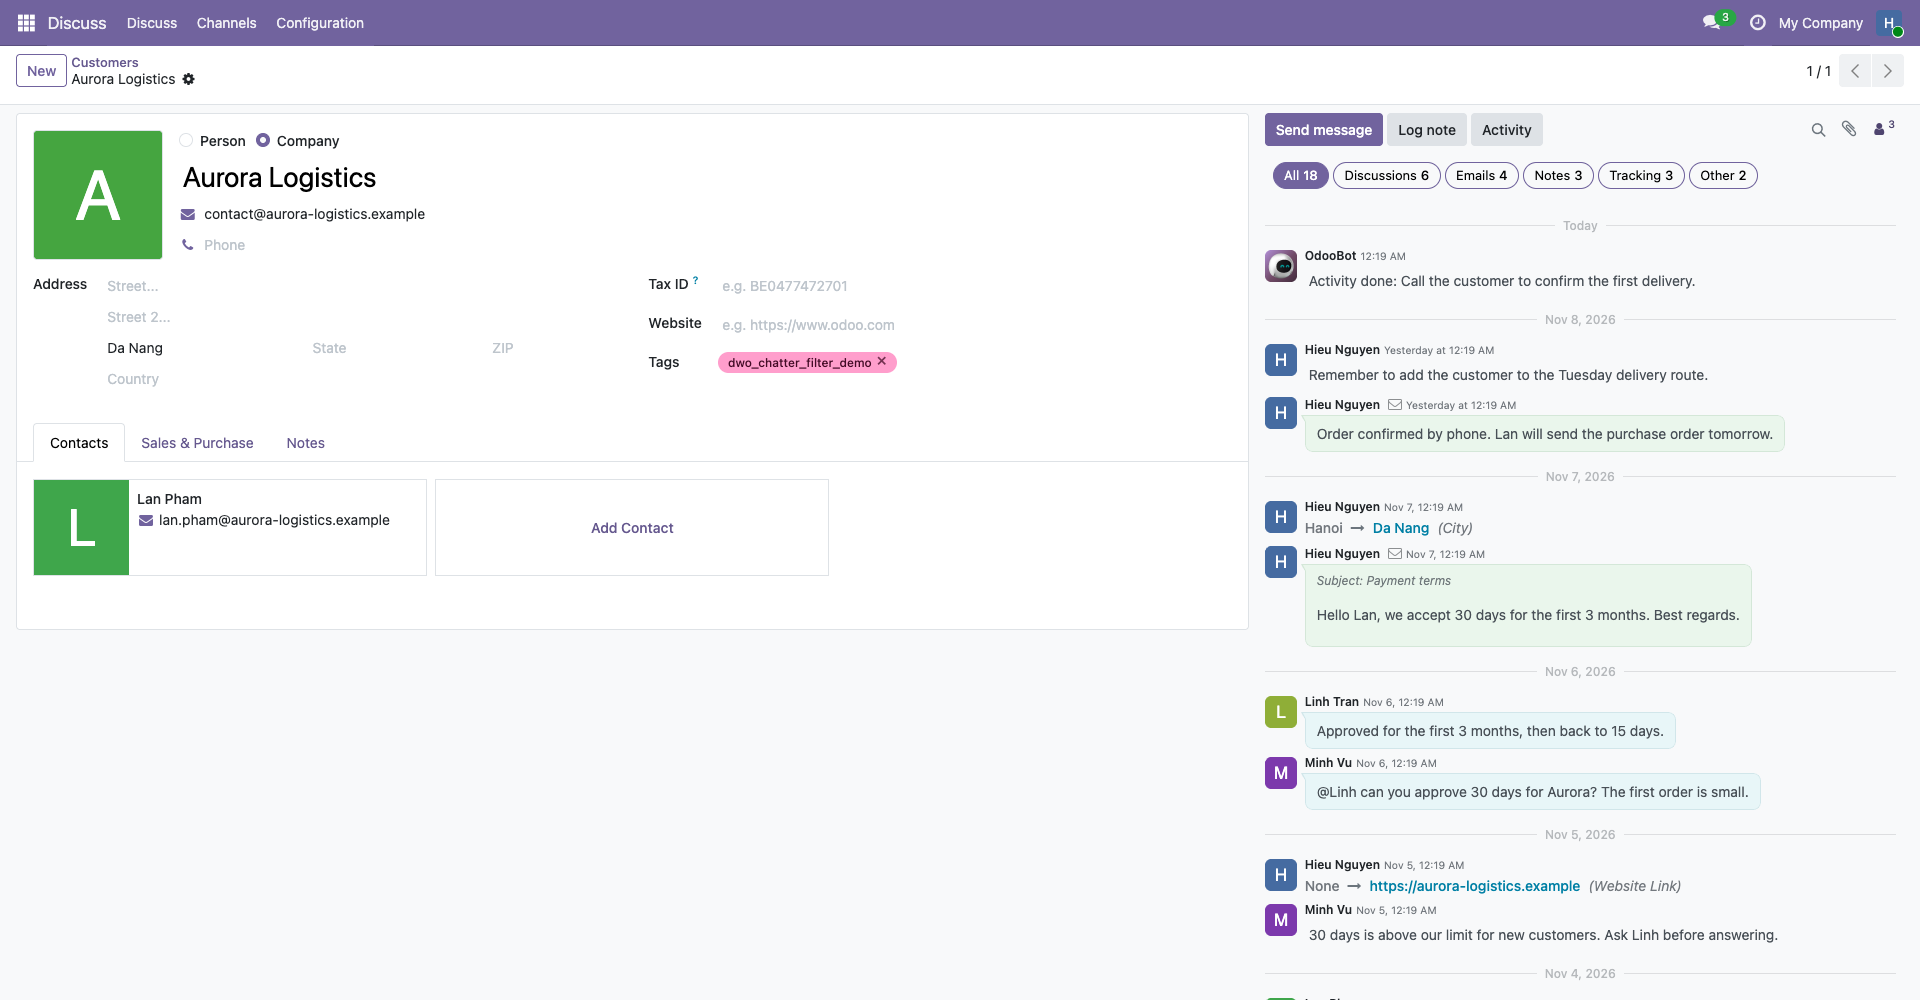
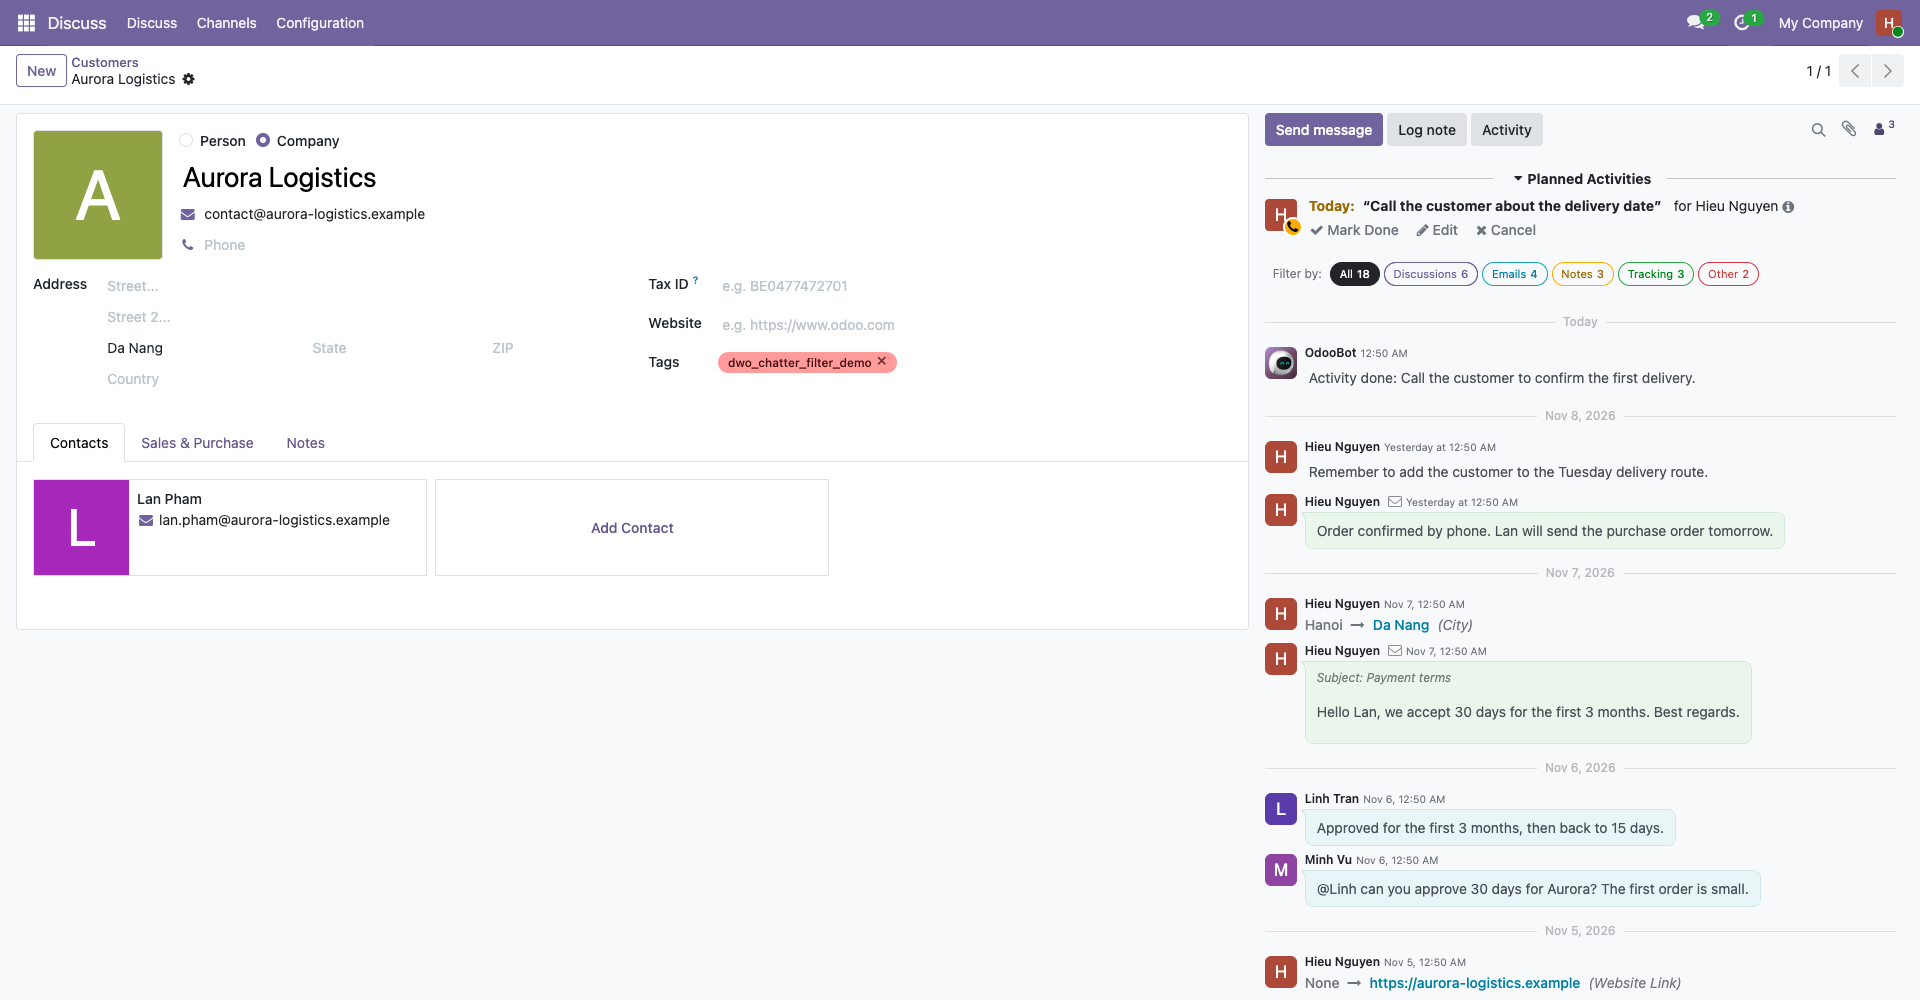
dwo_chatter_filter: badges under the activities, Filter by label, small font, one colour per kind
Claude-Session: https://claude.ai/code/session_01MswwjxeQXqVzdvrwyBqN2Q

diff --git a/dwo_chatter_filter/static/description/index.html b/dwo_chatter_filter/static/description/index.html
@@ -4,7 +4,7 @@
     <div class="text-center pt-5 pb-3 border-bottom">
         <h1 class="font-weight-bold mt-0 mb-2" style="font-size: 30px; color: #4A2F45;">Message Filter on Chatter for Odoo</h1>
         <p class="font-weight-bold mb-2" style="font-size: 18px; color: #4A2F45;">Stop scrolling through the whole chatter.</p>
-        <p class="mb-4" style="font-size: 15px;">A row of badges under <strong>Send message</strong>, <strong>Log note</strong> and <strong>Activity</strong>: click one to see only discussions, emails, notes or tracking.</p>
+        <p class="mb-4" style="font-size: 15px;">A <strong>Filter by:</strong> row of coloured badges above the messages: click one to see only discussions, emails, notes or tracking.</p>
     </div>
 
     <div class="my-5">
@@ -20,7 +20,7 @@
             <div class="card h-100" style="border-top: 4px solid #875A7B;">
                 <div class="card-body">
                     <h4 class="font-weight-bold mt-0 mb-3" style="font-size: 18px; color: #4A2F45;">Six badges</h4>
-                    <p class="mb-0" style="font-size: 14px;">All, Discussions, Emails, Notes, Tracking and Other.</p>
+                    <p class="mb-0" style="font-size: 14px;">All, Discussions, Emails, Notes, Tracking and Other, each with its own colour.</p>
                 </div>
             </div>
         </div>
@@ -36,7 +36,7 @@
             <div class="card h-100" style="border-top: 4px solid #875A7B;">
                 <div class="card-body">
                     <h4 class="font-weight-bold mt-0 mb-3" style="font-size: 18px; color: #4A2F45;">One click</h4>
-                    <p class="mb-0" style="font-size: 14px;">One kind at a time. Click All to come back.</p>
+                    <p class="mb-0" style="font-size: 14px;">One kind at a time: the badge fills with its colour. Click All to come back.</p>
                 </div>
             </div>
         </div>
@@ -67,9 +67,9 @@
     </div>
 
     <h2 class="font-weight-bold mt-5 mb-3" style="font-size: 30px; color: #4A2F45;">The whole picture</h2>
-    <p class="mb-4" style="font-size: 16px;">On a wide screen the chatter sits beside the record. The badges are right under the actions, each with its count.</p>
+    <p class="mb-4" style="font-size: 16px;">On a wide screen the chatter sits beside the record. <strong>Filter by:</strong> comes under the planned activities and above the messages. Each badge has its own colour and its count.</p>
     <div class="text-center mb-4">
-        <img src="screenshot_1.png" alt="A record with its chatter on the right: the badges All, Discussions, Emails, Notes, Tracking and Other with their counts, above the messages" class="img-fluid rounded shadow"/>
+        <img src="screenshot_1.png" alt="A record with its chatter on the right: the Filter by label and the badges All, Discussions, Emails, Notes, Tracking and Other, under the planned activities and above the messages" class="img-fluid rounded shadow"/>
     </div>
 
     <h2 class="font-weight-bold mt-5 mb-3" style="font-size: 30px; color: #4A2F45;">Discussions</h2>
@@ -120,7 +120,7 @@
         </div>
         <div class="tab-pane fade" id="dcf_use" role="tabpanel">
             <h4 class="font-weight-bold mt-0 mb-3" style="font-size: 18px; color: #875A7B;">Filter the messages</h4>
-            <p class="mb-2" style="font-size: 14px;">Open any record with a chatter. Click a badge to see that kind of message only. Click <strong>All</strong> to see everything again.</p>
+            <p class="mb-2" style="font-size: 14px;">Under <strong>Filter by:</strong>, click a badge to see that kind of message only. Click <strong>All</strong> to see everything again.</p>
             <h4 class="font-weight-bold mt-0 mb-3" style="font-size: 18px; color: #875A7B;">What each badge holds</h4>
             <p class="mb-2" style="font-size: 14px;"><strong>Discussions</strong>: Send message. <strong>Emails</strong>: emails received and sent. <strong>Notes</strong>: Log note. <strong>Tracking</strong>: changed fields. <strong>Other</strong>: automatic messages and the rest.</p>
             <p class="text-muted mb-0" style="font-size: 14px;">A badge with no message is greyed out.</p>

diff --git a/dwo_chatter_filter/static/tests/tours/filter_tour.js b/dwo_chatter_filter/static/tests/tours/filter_tour.js
@@ -35,9 +35,17 @@ const emailHidden = (text) => ({
 registry.category("web_tour.tours").add("dwo_chatter_filter", {
     steps: () => [
         { trigger: ".o-mail-Chatter" },
-        // the badges are right under the actions, with the numbers
-        { trigger: ".o-mail-Chatter-topbar + .o-dwo-messageFilter, .o-mail-Chatter-top + .o-mail-Chatter-content > .o-dwo-messageFilter" },
-        { trigger: `${badge("all")}.text-bg-primary:contains('5')` },
+        // the place: under the planned activities and above the messages
+        { trigger: ".o-mail-ActivityList + .o-dwo-messageFilter + .o-mail-Thread" },
+        // a label, then the badges, each with its own colour (outlined while off)
+        { trigger: ".o-dwo-messageFilter .o-dwo-filterLabel:contains('Filter by:')" },
+        { trigger: `${badge("discussion")}.text-primary.border-primary` },
+        { trigger: `${badge("email")}.text-info.border-info` },
+        { trigger: `${badge("note")}.text-warning.border-warning` },
+        { trigger: `${badge("tracking")}.text-success.border-success` },
+        { trigger: `${badge("other")}.text-danger.border-danger` },
+        // the numbers
+        { trigger: `${badge("all")}.text-bg-dark:contains('5')` },
         { trigger: `${badge("discussion")}:contains('1')` },
         { trigger: `${badge("email")}:contains('1')` },
         { trigger: `${badge("note")}:contains('1')` },
@@ -49,7 +57,8 @@ registry.category("web_tour.tours").add("dwo_chatter_filter", {
         emailShown("Email from the customer"),
         // Emails: only the email
         { trigger: badge("email"), run: "click" },
-        { trigger: `${badge("email")}.text-bg-primary` },
+        // chosen: filled with its colour
+        { trigger: `${badge("email")}.text-bg-info` },
         emailShown("Email from the customer"),
         { trigger: hidden("Talk about the order") },
         { trigger: hidden("Private reminder") },
@@ -72,7 +81,7 @@ registry.category("web_tour.tours").add("dwo_chatter_filter", {
         { trigger: hidden("Automatic message") },
         // All: back to everything
         { trigger: badge("all"), run: "click" },
-        { trigger: `${badge("all")}.text-bg-primary` },
+        { trigger: `${badge("all")}.text-bg-dark` },
         { trigger: showing("Private reminder") },
         { trigger: showing("Automatic message") },
         emailShown("Email from the customer"),

diff --git a/dwo_chatter_filter/static/src/filter/dwo_message_filter.js b/dwo_chatter_filter/static/src/filter/dwo_message_filter.js
@@ -2,12 +2,13 @@ import { Component, onWillUnmount, useEffect, useState } from "@odoo/owl";
 import { _t } from "@web/core/l10n/translation";
 import { useService } from "@web/core/utils/hooks";
 
+// Each kind has its own colour (a Bootstrap contextual colour): outlined when off, filled when chosen.
 const KINDS = [
-    { id: "discussion", label: _t("Discussions") },
-    { id: "email", label: _t("Emails") },
-    { id: "note", label: _t("Notes") },
-    { id: "tracking", label: _t("Tracking") },
-    { id: "other", label: _t("Other") },
+    { id: "discussion", label: _t("Discussions"), color: "primary" },
+    { id: "email", label: _t("Emails"), color: "info" },
+    { id: "note", label: _t("Notes"), color: "warning" },
+    { id: "tracking", label: _t("Tracking"), color: "success" },
+    { id: "other", label: _t("Other"), color: "danger" },
 ];
 
 /**
@@ -49,7 +50,7 @@ export class DwoMessageFilter extends Component {
 
     get items() {
         const counts = this.state.counts || {};
-        return [{ id: false, label: _t("All"), count: counts.all ?? 0 }].concat(
+        return [{ id: false, label: _t("All"), color: "dark", count: counts.all ?? 0 }].concat(
             KINDS.map((kind) => ({ ...kind, count: counts[kind.id] ?? 0 }))
         );
     }

diff --git a/dwo_chatter_filter/static/src/filter/dwo_message_filter.scss b/dwo_chatter_filter/static/src/filter/dwo_message_filter.scss
@@ -1,6 +1,11 @@
-.o-dwo-messageFilter .o-dwo-filterBadge {
-    cursor: pointer;
-    font-size: .8125rem;
-    padding: .35rem .65rem;
-    &.o-dwo-filterEmpty { opacity: .5; cursor: default; }
+.o-dwo-messageFilter {
+    font-size: .75rem;
+    .o-dwo-filterLabel { font-size: .75rem; }
+    .o-dwo-filterBadge {
+        cursor: pointer;
+        font-size: .7rem;
+        padding: .25rem .55rem;
+        line-height: 1.2;
+        &.o-dwo-filterEmpty { opacity: .45; cursor: default; }
+    }
 }

diff --git a/dwo_chatter_filter/tests/test_filter_tour.py b/dwo_chatter_filter/tests/test_filter_tour.py
@@ -17,6 +17,8 @@ class TestMessageFilterTour(HttpCase):
         Message.create(dict(base, body="<p>Private reminder</p>", message_type="comment", subtype_id=mt_note.id))
         Message.create(dict(base, body="<p>Email from the customer</p>", message_type="email", subtype_id=mt_comment.id))
         tracking = Message.create(dict(base, body="", message_type="notification", subtype_id=mt_note.id))
+        # a planned activity: the badges come under it
+        cls.record.activity_schedule("mail.mail_activity_data_todo", summary="Call the customer")
         cls.env["mail.tracking.value"].create({
             "field_id": cls.env["ir.model.fields"]._get("res.partner", "name").id,
             "mail_message_id": tracking.id, "old_value_char": "Old name", "new_value_char": "Name changed"})

diff --git a/.lab/dwo_chatter_filter_demo_data/hooks.py b/.lab/dwo_chatter_filter_demo_data/hooks.py
@@ -91,6 +91,11 @@ def post_init_hook(env):
     note(1, "<p>Remember to add the customer to the Tuesday delivery route.</p>", admin)
     automatic(0, "<p>Activity done: Call the customer to confirm the first delivery.</p>")
 
+    # a planned activity: the badges come under it
+    aurora.activity_schedule(
+        "mail.mail_activity_data_call", summary="Call the customer about the delivery date",
+        user_id=admin.id, date_deadline=fields.Date.today() + timedelta(days=1))
+
     env["mail.mail"].sudo().search([("state", "=", "outgoing")]).write({"state": "cancel"})
 
 

diff --git a/dwo_chatter_filter/docs/README.md b/dwo_chatter_filter/docs/README.md
@@ -10,9 +10,15 @@ trộn lẫn. Muốn xem riêng email hay riêng các lần thay đổi trườn
 
 ## 2. Tính năng
 
-Một hàng badge ở đầu vùng nội dung chatter, ngay dưới hàng nút Send message, Log note, Activity:
+Một hàng badge có nhãn **Filter by:**, nằm **dưới danh sách Planned Activities (`o-mail-ActivityList`) và trên danh sách
+message (`o-mail-Thread`)**:
 
 **All · Discussions · Emails · Notes · Tracking · Other**, mỗi badge có số message.
+
+- Chữ nhỏ (`.7rem`). Mỗi loại một màu viền riêng, nền trong suốt khi chưa chọn; **bấm vào thì đổi sang màu đặc** của loại đó:
+  All = dark, Discussions = primary, Emails = info, Notes = warning, Tracking = success, Other = danger.
+- Vị trí đặt bằng xpath **trước `SearchMessageResult`** (không phải trước `Thread`), vì hai phần tử này là cặp `t-if` / `t-else`
+  của core; chèn vào giữa sẽ làm hỏng cặp đó.
 
 - Bấm một badge thì chỉ hiện loại đó. **Chọn một loại tại một thời điểm**; bấm **All** để quay về tất cả.
 - Không lưu lựa chọn: mở lại bản ghi là thấy tất cả (tránh việc ai đó bỏ sót message mà không biết đang lọc).
